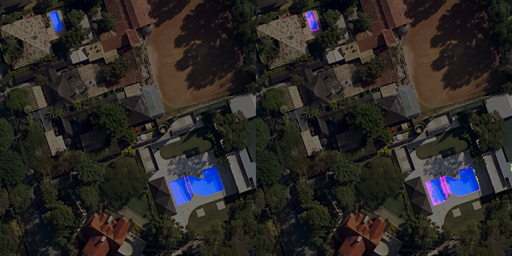
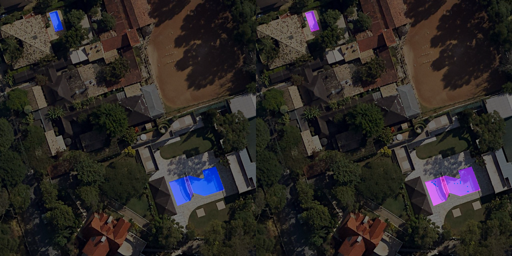
BREAKTHROUGH!

Changed region(s): [[0.8438, 0.6562, 0.9375, 0.8125], [0.5938, 0.0625, 0.625, 0.125]]

diff --git a/results/train/report.md b/results/train/report.md
@@ -8,9 +8,9 @@ params.yaml
 
 metrics.json
 
-| train                         | eval                           |   dice_multi |   step |
-|-------------------------------|--------------------------------|--------------|--------|
-| {'loss': 0.03061583824455738} | {'loss': 0.021420806646347046} |     0.872848 |      8 |
+| train                         | eval                          |   dice_multi |   step |
+|-------------------------------|-------------------------------|--------------|--------|
+| {'loss': 0.10098417848348618} | {'loss': 0.06589560210704803} |     0.501755 |      2 |
 
 ![static/dice_multi](static/dice_multi.png)
 

diff --git a/results/evaluate/report.md b/results/evaluate/report.md
@@ -4,7 +4,7 @@ metrics.json
 
 |   dice_multi |
 |--------------|
-|     0.693882 |
+|     0.498096 |
 
 ![REGION_2-19_1136_2160_0_1024.png](plots/images/REGION_2-19_1136_2160_0_1024.png)
 
